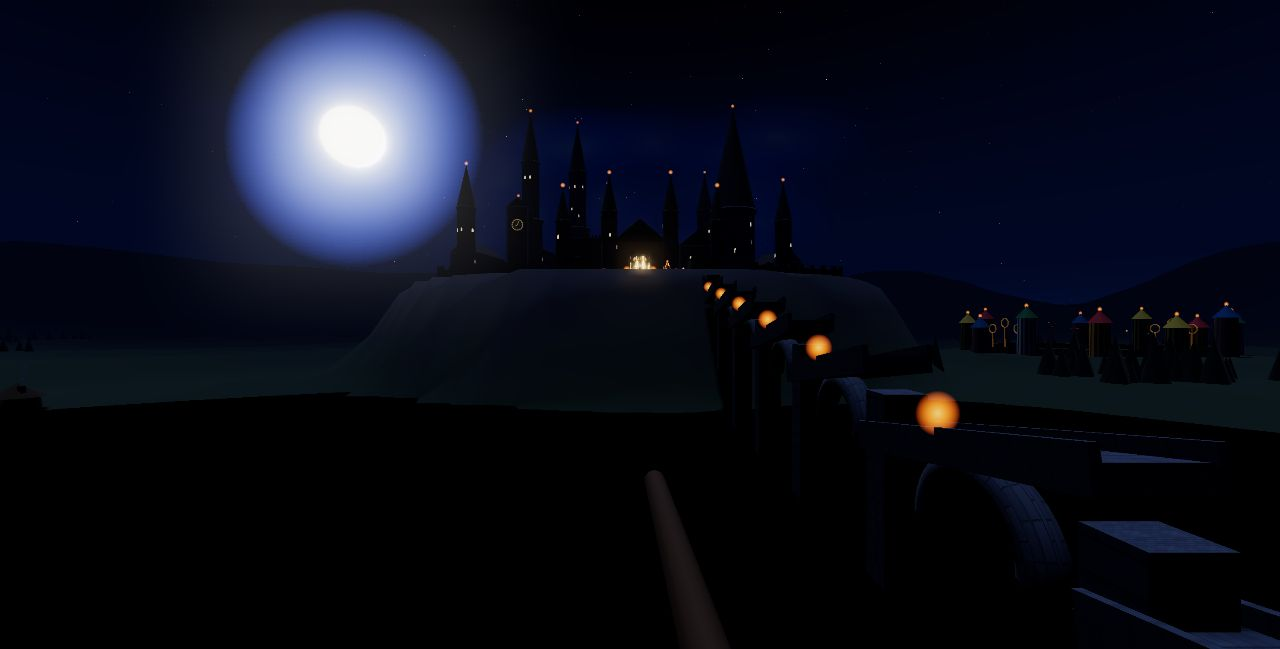
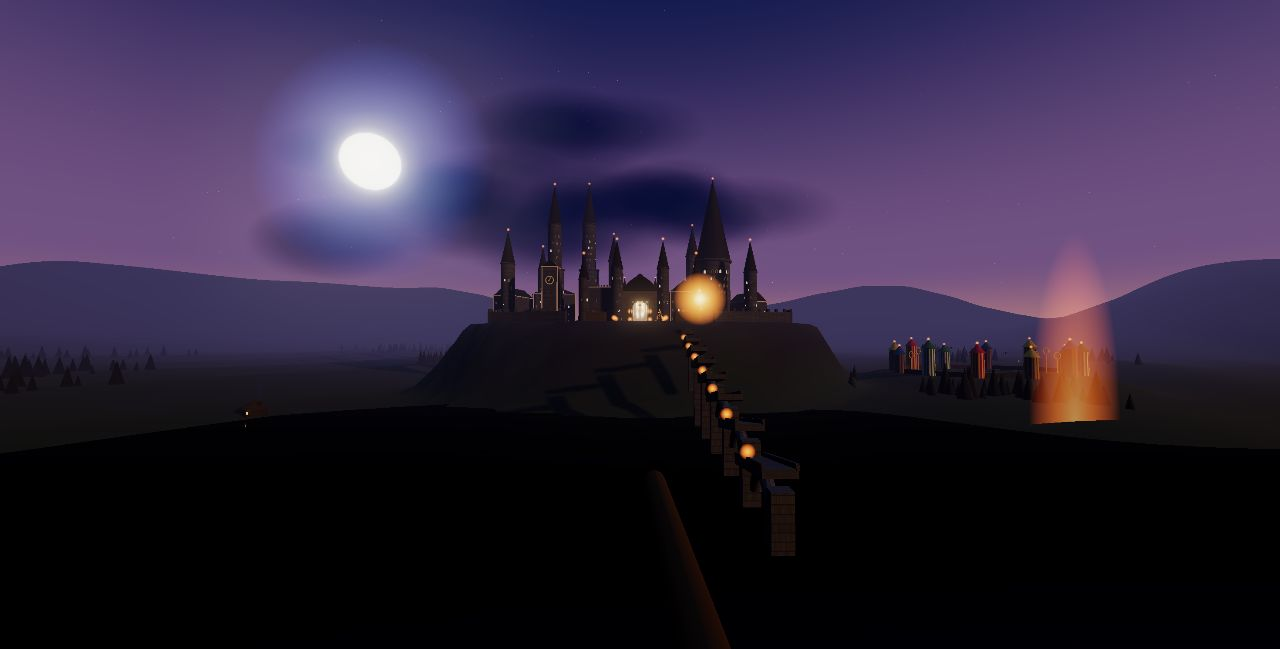
Nightflight golden-hour pass: fixed sunset lighting, normal-mapped stone, feast
- Replace day/night cycle with one hand-tuned perpetual sunset (warm low SE
  sun as shadow-casting key, cool moon fill, warm horizon sky, lighter fog)
  so the world is consistently readable — never too dark or blown out
- Procedural normal maps (Sobel on ashlar heightmap) on castle, hall and
  classroom stone for real relief under raking light
- Great Hall now mid-feast: ~120 instanced students on benches + staff at
  the high table
- Retake README screenshots brighter and wider (same filenames); add
  PLAN.md working notes for cross-session continuity

diff --git a/nightflight/index.html b/nightflight/index.html
@@ -124,6 +124,29 @@ const greystone=(function(){ const c=cvs(256,256), g=c.getContext('2d');
   for(let i=0;i<2600;i++){ const v=Math.random()*30-15; g.fillStyle=`rgba(${92+v},${98+v},${110+v},.35)`; g.fillRect(Math.random()*256,Math.random()*256,3,3); }
   return tex(c,{rep:[2.2,2.2]}); })();
 
+// normal map from a canvas heightmap (Sobel) — gives the ashlar real relief
+function normalFromHeight(draw,{w=256,h=256,strength=2.4,rep=[2.2,2.2]}={}){
+  const c=cvs(w,h), g=c.getContext('2d'); draw(g,w,h);
+  const src=g.getImageData(0,0,w,h).data, out=g.createImageData(w,h), o=out.data;
+  const hf=(x,y)=>src[(((y+h)%h)*w+((x+w)%w))*4]/255;
+  for(let y=0;y<h;y++) for(let x=0;x<w;x++){
+    const dx=(hf(x+1,y)-hf(x-1,y))*strength, dy=(hf(x,y+1)-hf(x,y-1))*strength;
+    const inv=1/Math.sqrt(dx*dx+dy*dy+1), i=(y*w+x)*4;
+    o[i]=Math.round((-dx*inv*.5+.5)*255); o[i+1]=Math.round((dy*inv*.5+.5)*255); o[i+2]=Math.round(inv*255); o[i+3]=255; }
+  g.putImageData(out,0,0);
+  const t=new THREE.CanvasTexture(c); t.wrapS=t.wrapT=THREE.RepeatWrapping; t.repeat.set(rep[0],rep[1]); return t;
+}
+const stoneNormal=normalFromHeight((g,w,h)=>{
+  g.fillStyle='#555'; g.fillRect(0,0,w,h);
+  const bh=36; let row=0;
+  for(let y=0;y<h;y+=bh){ const off=(row++%2)?32:0;
+    for(let x=-64;x<w;x+=64){ const v=Math.random()*26-13;
+      g.fillStyle=`rgb(${168+v},${168+v},${168+v})`; g.fillRect(x+off+3,y+3,58,bh-6); } }
+  // pitting
+  for(let i=0;i<900;i++){ const v=Math.random()*70; g.fillStyle=`rgba(${90+v},${90+v},${90+v},.5)`;
+    g.beginPath(); g.arc(Math.random()*w,Math.random()*h,Math.random()*2.5+.5,0,7); g.fill(); }
+});
+
 const sandstone=(function(){ const c=cvs(256,256), g=c.getContext('2d');
   g.fillStyle='#8a7048'; g.fillRect(0,0,256,256);
   for(let i=0;i<12000;i++){ const v=Math.random()*50-22; g.fillStyle=`rgba(${150+v},${120+v},${78+v},${Math.random()*.5})`; g.fillRect(Math.random()*256,Math.random()*256,2,2); }
@@ -277,8 +300,8 @@ function terrainH(x,z){
   const geo=new THREE.CircleGeometry(720,96); geo.rotateX(-Math.PI/2);
   const m=new THREE.Mesh(geo, new THREE.MeshStandardMaterial({color:0x070e17, roughness:.1, metalness:.88, transparent:true, opacity:.97}));
   m.position.set(0,2,820); scene.add(m);
-  const glint=new THREE.Sprite(new THREE.SpriteMaterial({map:coolGlow,color:0xdfe9ff,transparent:true,blending:THREE.AdditiveBlending,depthWrite:false}));
-  glint.scale.set(200,1100,1); glint.position.set(-160,4,700); scene.add(glint);
+  const glint=new THREE.Sprite(new THREE.SpriteMaterial({map:warmGlow,color:0xe8b070,transparent:true,opacity:.5,blending:THREE.AdditiveBlending,depthWrite:false}));
+  glint.scale.set(90,380,1); glint.position.set(430,4,300); scene.add(glint);
   // low fog banks drifting over the water
   window.__fogBanks=[];
   for(let i=0;i<10;i++){ const f=new THREE.Sprite(new THREE.SpriteMaterial({map:coolGlow,color:0x111a2c,transparent:true,opacity:.32,depthWrite:false}));
@@ -310,7 +333,7 @@ function terrainH(x,z){
 // CASTLE KIT — greystone masses + one giant InstancedMesh of lit windows
 // ============================================================================
 const colliders=[];   // {t:'b',minx..maxz} boxes and {t:'c',x,z,r,y0,y1} cylinders — solid world
-const stoneM=new THREE.MeshStandardMaterial({map:greystone, roughness:.92, metalness:.03, color:0xa4a9b6});
+const stoneM=new THREE.MeshStandardMaterial({map:greystone, normalMap:stoneNormal, normalScale:new THREE.Vector2(.75,.75), roughness:.92, metalness:.03, color:0xa4a9b6});
 const roofM =new THREE.MeshStandardMaterial({map:roofTex, roughness:.8, metalness:.05, color:0x323a52});
 const winMats=[];           // Matrix4 list for instanced windows
 const winColors=[];         // per-window warm/cool tint
@@ -413,7 +436,7 @@ const candleAnchors=[]; const hallLights=[]; const torchSprites=[];
 
 (function greatHall(){
   const {W,H,L,fy}=HALL, halfW=W/2, halfL=L/2;
-  const wallM=new THREE.MeshStandardMaterial({map:greystone, roughness:.95, metalness:.02, color:0xc2b295, emissive:0x171207, emissiveIntensity:.32});
+  const wallM=new THREE.MeshStandardMaterial({map:greystone, normalMap:stoneNormal, normalScale:new THREE.Vector2(.6,.6), roughness:.95, metalness:.02, color:0xc2b295, emissive:0x241c0e, emissiveIntensity:.5});
   const floorM=new THREE.MeshStandardMaterial({color:0x322718, roughness:.22, metalness:.35});
   const woodM=new THREE.MeshStandardMaterial({color:0x4a2f18, roughness:.6});
 
@@ -504,7 +527,7 @@ const candleAnchors=[]; const hallLights=[]; const torchSprites=[];
   }
   // interior key lights
   for(const [lx,lz] of [[-18,-70],[18,-70],[-18,-20],[18,-20],[-18,30],[18,30],[-18,75],[18,75],[0,-halfL+18]]){
-    const pl=new THREE.PointLight(0xffc98a, 52, 150, 2.0); pl.position.set(lx,fy+28,lz); hallG.add(pl); hallLights.push({l:pl,b:52,ph:Math.random()*7}); }
+    const pl=new THREE.PointLight(0xffc98a, 66, 160, 2.0); pl.position.set(lx,fy+28,lz); hallG.add(pl); hallLights.push({l:pl,b:66,ph:Math.random()*7}); }
 
   window.__vaultMat=vault.material;   // enchanted ceiling mirrors the sky
 
@@ -543,6 +566,26 @@ const candleAnchors=[]; const hallLights=[]; const torchSprites=[];
     plates.count=pi; gobs.count=gi; plats.count=fi;
     plates.instanceMatrix.needsUpdate=gobs.instanceMatrix.needsUpdate=plats.instanceMatrix.needsUpdate=true;
     hallG.add(plates,gobs,plats); }
+
+  // the feast: students on every bench, staff at the high table (instanced)
+  { const NST=4*14*2+5;
+    const bodies=new THREE.InstancedMesh(new THREE.CapsuleGeometry(.55,.95,4,8), new THREE.MeshStandardMaterial({color:0x1a1510,roughness:.92}), NST);
+    const heads=new THREE.InstancedMesh(new THREE.SphereGeometry(.4,8,8), new THREE.MeshStandardMaterial({color:0xffffff,roughness:.85}), NST);
+    const d=new THREE.Object3D(), col=new THREE.Color(); const skins=[0xc9a380,0x8a5f3c,0xe8c39a,0x6b452a,0xd9b08c]; let i3=0;
+    for(let ti=0;ti<4;ti++){ const tx=-W/2+(ti+.9)*(W/4.8);
+      for(let k=0;k<14;k++){ const zk=-64+k*10.2;
+        for(const s2 of [-1,1]){ if(i3>=NST-5) continue;
+          const bx=tx+s2*4.2, bz=zk+(Math.random()-.5)*2.4;
+          d.position.set(bx,fy+3.3,bz); d.rotation.set((Math.random()-.5)*.08,s2>0?-Math.PI/2:Math.PI/2,(Math.random()-.5)*.14); d.updateMatrix(); bodies.setMatrixAt(i3,d.matrix);
+          d.position.set(bx,fy+4.65,bz); d.rotation.set(0,0,0); d.updateMatrix(); heads.setMatrixAt(i3,d.matrix);
+          col.setHex(skins[(i3*7)%5]); heads.setColorAt(i3,col); i3++; } } }
+    for(let s3=0;s3<5;s3++){ const hx=-W/2+12+s3*(W-24)/4;
+      d.position.set(hx,fy+4.1,-halfL+13); d.rotation.set(0,0,0); d.updateMatrix(); bodies.setMatrixAt(i3,d.matrix);
+      d.position.set(hx,fy+5.6,-halfL+13); d.updateMatrix(); heads.setMatrixAt(i3,d.matrix);
+      col.setHex(skins[s3%5]); heads.setColorAt(i3,col); i3++; }
+    bodies.count=heads.count=i3; bodies.instanceMatrix.needsUpdate=heads.instanceMatrix.needsUpdate=true;
+    if(heads.instanceColor) heads.instanceColor.needsUpdate=true;
+    hallG.add(bodies,heads); }
 
   // solid geometry — the hall pushes back (world-space, hall centred at z=zC)
   const zC=HALL.zC;
@@ -793,7 +836,7 @@ xmasTree(30, PLA, 52, 19);
 function classroom(cx,cz){
   const W2=26, D2=34, H2=13, doorW2=11, doorH2=10.5;
   const g=new THREE.Group(); g.position.set(cx,PLA,cz); scene.add(g);
-  const wallM2=new THREE.MeshStandardMaterial({map:greystone, color:0xbfb098, roughness:.95});
+  const wallM2=new THREE.MeshStandardMaterial({map:greystone, normalMap:stoneNormal, normalScale:new THREE.Vector2(.6,.6), color:0xbfb098, roughness:.95});
   const woodM2=new THREE.MeshStandardMaterial({color:0x4a3218, roughness:.7});
   const floor2=new THREE.Mesh(new THREE.BoxGeometry(W2,1,D2), new THREE.MeshStandardMaterial({color:0x2e2417,roughness:.5,metalness:.2})); floor2.position.y=.5; g.add(floor2);
   const ceil2=new THREE.Mesh(new THREE.BoxGeometry(W2,1,D2), wallM2); ceil2.position.y=H2; g.add(ceil2);
@@ -951,15 +994,23 @@ document.getElementById('go').addEventListener('click', ()=>{
 // ============================================================================
 // Animate
 // ============================================================================
-// day-night palettes (night → dawn → golden morning)
-const C_=(h)=>new THREE.Color(h);
-const SKY_T=[C_(0x04050e),C_(0x2a2246),C_(0x3a5e97)], SKY_M=[C_(0x0d1734),C_(0x6a4a66),C_(0x7c98c8)], SKY_B=[C_(0x1a2a50),C_(0xc97b4a),C_(0xe8c9a0)];
-const FOG_C=[C_(0x0a1024),C_(0x4a3a50),C_(0x93a7c4)];
-const VAULT_E=[C_(0x4a6ac0),C_(0x8a7aa8),C_(0xaac8ee)];
-const SUN_LO=C_(0xff9a56), SUN_HI=C_(0xffe8c0);
-const _mx=new THREE.Color(), _v1=new THREE.Vector3();
-function mix3(arr,k){ if(k<.5) _mx.copy(arr[0]).lerp(arr[1],k*2); else _mx.copy(arr[1]).lerp(arr[2],(k-.5)*2); return _mx; }
-const DAYP=300;   // seconds for a full night→day→night cycle
+// ---- perpetual golden hour: one hand-tuned sunset, applied once ----
+const SUNDIR=new THREE.Vector3(.62,.17,.52).normalize();   // low SE sun — lights the lake-facing facades
+(function sunsetLighting(){
+  window.__skyU.top.value.setHex(0x232a55); window.__skyU.mid.value.setHex(0x6a5378); window.__skyU.bot.value.setHex(0xe0985e);
+  scene.fog.color.setHex(0x46405e); scene.fog.density=.00062;
+  sun.color.setHex(0xffb875); sun.intensity=2.35;
+  sun.castShadow=true; sun.shadow.mapSize.set(2048,2048);
+  { const sc2=sun.shadow.camera; sc2.near=200; sc2.far=6000; sc2.left=sc2.bottom=-1200; sc2.right=sc2.top=1200; sun.shadow.bias=-0.0005; }
+  moon.castShadow=false; moon.intensity=.85;                     // cool fill from the north-west
+  sunHalo.material.opacity=.85;
+  if(window.__stars) window.__stars.uniforms.fade.value=.35;
+  if(window.__moonHalo) window.__moonHalo.material.opacity=.25;
+  hemi.intensity=1.25; amb.intensity=.62; scene.fog.density=.00052;
+  if(window.__winMat) window.__winMat.color.setScalar(.92);
+  if(window.__vaultMat){ window.__vaultMat.emissive.setHex(0x7a6ab0); window.__vaultMat.emissiveIntensity=1.7; }
+  bloom.strength=.55;
+})();
 
 const clock=new THREE.Clock();
 const cp=cGeo.attributes.position.array, cf=cGeo.attributes.flick.array;
@@ -995,24 +1046,9 @@ function tick(){
     sm2.s.position.set(B[0]+Math.sin(t*.7+sm2.i)*1.4*(f/26+.3), B[1]+f, B[2]+Math.cos(t*.5+sm2.i)*1.2);
     sm2.s.material.opacity=.3*(1-f/26); sm2.s.scale.setScalar(3+f*.35); } }
 
-  // --- the sun cycle: night → dawn → golden morning → night ---
-  const day=.5-.5*Math.cos(((t%DAYP)/DAYP)*Math.PI*2);
-  window.__skyU.top.value.copy(mix3(SKY_T,day)); window.__skyU.mid.value.copy(mix3(SKY_M,day)); window.__skyU.bot.value.copy(mix3(SKY_B,day));
-  scene.fog.color.copy(mix3(FOG_C,day)); scene.fog.density=.00085-.00025*day;
-  const elev=-.32+day*1.0, sE=Math.max(0,Math.sin(elev));
-  const sunDir=_v1.set(Math.cos(elev)*.92, Math.sin(elev), -.39).normalize();
-  sun.position.copy(rig.position).addScaledVector(sunDir,2500); sun.target.position.copy(rig.position);
-  sun.intensity=3.2*sE; sun.color.copy(SUN_LO).lerp(SUN_HI, Math.min(1,sE*2));
-  sunDisc.position.copy(rig.position).addScaledVector(sunDir,7600); sunHalo.position.copy(sunDisc.position);
-  sunHalo.material.opacity=Math.min(.95,sE*2.2);
-  moon.intensity=2.6*(1-day*.82)+.12;
-  if(window.__stars) window.__stars.uniforms.fade.value=1-day*.92;
-  if(window.__moonHalo) window.__moonHalo.material.opacity=.9*(1-day*.85);
-  hemi.intensity=.72+day*1.1; amb.intensity=.38+day*.5;
-  if(window.__winMat) window.__winMat.color.setScalar(1-day*.78);
-  if(window.__vaultMat){ window.__vaultMat.emissive.copy(mix3(VAULT_E,day)); window.__vaultMat.emissiveIntensity=1.5+day*1.1; }
-  if(window.__flameMats&&window.__flameMats.length>1){ window.__flameMats[0].uniforms.dim.value=.7*(1-day*.3); window.__flameMats[1].uniforms.dim.value=.26*(1-day*.3); }
-  bloom.strength=.7-.32*day;
+  // golden-hour key light + sun disc follow the flyer (keeps shadows crisp)
+  sun.position.copy(rig.position).addScaledVector(SUNDIR,2500); sun.target.position.copy(rig.position);
+  sunDisc.position.copy(rig.position).addScaledVector(SUNDIR,7600); sunHalo.position.copy(sunDisc.position);
 
   if(st.flying){
     let rollT=0;

diff --git a/nightflight/PLAN.md b/nightflight/PLAN.md
@@ -1,0 +1,58 @@
+# Nightflight — working plan & continuity notes
+
+Purpose: lets any session (or a cheaper model) resume mid-stream. Update the
+checklist as you go. App = single `index.html`, Three.js r160 vendored in
+`lib/`, no build step. Serve with `python3 -m http.server` from this folder.
+
+## Current milestone: "golden hour" quality pass — ✅ DONE (all six steps)
+
+- [x] 1. **Fixed sunset lighting** — remove the day/night cycle (`DAYP`, `mix3`,
+      palette arrays, and the per-frame "sun cycle" block in `tick()`); replace
+      with one static golden-hour setup (warm low sun = key light with shadows,
+      cool moon fill, warm horizon sky, lighter fog, stars faint). Keep the
+      per-frame lines that make sun/moon FOLLOW `rig.position` so shadows stay
+      crisp. Goal: consistent visibility — never too dark, never blown out.
+- [x] 2. **Normal-mapped stone** — add `normalFromHeight(draw)` helper (Sobel on
+      a canvas heightmap of the same ashlar block pattern as `greystone`);
+      apply to `stoneM`, hall `wallM`, classroom walls. This is the "brick
+      relief" upgrade — raking sunset light makes it pop.
+- [x] 3. **People in the Great Hall** — two InstancedMeshes (robed capsule
+      bodies + skin-tone heads, ~115 students on the benches, 5 staff at the
+      high table). Classrooms + Quidditch already have people.
+- [x] 4. **Retake screenshots** (brighter + more zoomed out) into
+      `screenshots/` with the SAME filenames (`great-hall.jpg`,
+      `castle-approach.jpg`, `quidditch.jpg`) so README links hold.
+      Method: temporarily add `window.__shot` (canvas→jpeg dataURL),
+      `window.__tp` (teleport), and a `go.click()` autostart; run
+      `scratchpad shot_receiver.py`-style local POST receiver on :8125; page
+      fetches each shot to it. REMOVE all three debug lines after.
+      Camera spots: hall (0, 142, -58, yaw 0) · exterior (0, 95, 760, yaw 0)
+      · quidditch (505, 92, -80, yaw -PI/2).
+- [x] 5. **README updates** — this project's README + `../README.md` table row:
+      say "perpetual golden-hour/sunset", drop the sun-cycle bullet.
+- [x] 6. **Commit** in the AIExperiments repo (already authorized). Do NOT push
+      unless Vatsal says so (branch already 1 ahead of origin).
+
+## Gotchas learned (do not rediscover these)
+
+- **Chrome caches index.html between navigates** — after editing, always load with a
+  fresh query string (`index.html?v=N`) or you will debug a stale build. This
+  cost a full detour ("missing" Quidditch stands that were never missing).
+
+- Browser-automation clicks sometimes miss (screenshot px ≠ CSS px when DPR
+  shifts) → prefer the autostart line + `__tp` over UI clicks while testing.
+- The automation channel occasionally delivers phantom key events after
+  `navigate` — app is fine (proven with an event trap); ignore stray motion.
+- `save_to_disk` screenshots go somewhere unfindable; JS tool blocks base64
+  return. The local-POST-receiver trick is the reliable capture path.
+- Debug spawn/autostart lines are marked `// DEBUG` — always grep them out
+  before committing.
+
+## Key code landmarks (index.html)
+
+- Lighting rig: `moon`, `sun`, `hemi`, `amb`, `bloom` near top; sky uniforms at
+  `window.__skyU`; lit windows material `window.__winMat`; hall ceiling
+  `window.__vaultMat`; candle materials `window.__flameMats`.
+- Hall constants: `HALL={W:64,H:58,L:210,fy:PLA,zC:-155}` (interior z −260…−50).
+- `terrainH(x,z)` = analytic ground truth for mesh AND flight clamp.
+- `colliders[]` = solid world (boxes + cylinders), resolved in `tick()`.

diff --git a/nightflight/README.md b/nightflight/README.md
@@ -1,10 +1,11 @@
 # Nightflight — a broom over Hogwarts
 
-A first-person, free-flight Hogwarts at Christmas, in the browser. You start
+A first-person, free-flight Hogwarts at Christmas, in the browser — lit by a
+perpetual golden-hour sunset so the whole world stays readable. You start
 hovering over the Black Lake with the castle ahead and simply fly — through the
-great doors, under a thousand floating candles, past classrooms in session, and
-over a Quidditch match in progress. A golden wisp leads the way; place names fade
-in when you arrive.
+great doors into a feast under a thousand floating candles, past classrooms in
+session, and over a Quidditch match in progress. A golden wisp leads the way;
+place names fade in when you arrive.
 
 ![The Great Hall at Christmas](screenshots/great-hall.jpg)
 ![The castle across the lake](screenshots/castle-approach.jpg)
@@ -12,10 +13,10 @@ in when you arrive.
 
 ## The world
 
-- **Great Hall** — cathedral scale: floating candles with floor reflections, a
-  starry gothic vault that mirrors the sky outside, stained-glass lancets, gilt
-  portraits, iron chandeliers, tables laden with gold plates & goblets, and four
-  fairy-lit Christmas trees.
+- **Great Hall** — cathedral scale, mid-feast: ~120 students on the benches and
+  staff at the high table, floating candles with floor reflections, a starry
+  gothic vault, stained-glass lancets, gilt portraits, iron chandeliers, tables
+  laden with gold plates & goblets, and four fairy-lit Christmas trees.
 - **Two classrooms** off the courtyard with classes in session — candle-lit
   desks, seated students, a hatted teacher, bookshelves.
 - **Quidditch pitch** — striped house stands, three golden hoops per end, two
@@ -23,8 +24,9 @@ in when you arrive.
 - Astronomy tower, clock tower, cobbled courtyard with lamp posts, Hagrid's hut
   with a smoking chimney, an arched viaduct down to the boathouse, pine forest,
   mountains, drifting lake fog.
-- **Sun cycle** (~5 min): night → dawn → golden morning and back — sky, fog,
-  moon, stars, window lights and the enchanted ceiling all follow.
+- **Golden-hour light**: one hand-tuned low sun (warm key + long shadows) with
+  cool moon fill — consistent visibility everywhere, indoors and out. Stone
+  facades carry procedural **normal maps**, so the raking light shows real relief.
 - **Solid world**: terrain + building collision. You fly around towers and
   through doorways, never through walls.
 
@@ -62,7 +64,10 @@ What actually moved the realism needle, in order:
    4 lit. Restraint reads as real; a wall of glowing quads reads as a toy.
 3. **Collision + guided navigation** — nothing breaks immersion faster than
    clipping through a wall or not knowing where to go.
-4. **Life** — riders over the pitch, smoke from Hagrid's chimney, a sun that
-   rises. Still worlds feel like screenshots; moving ones feel like places.
+4. **Life** — a feast in the Hall, riders over the pitch, smoke from Hagrid's
+   chimney. Still worlds feel like screenshots; moving ones feel like places.
+5. **One good light beats a fancy cycle** — a day/night cycle sounded rich but
+   spent half its time too dark or too flat; a single hand-tuned golden hour
+   looks better every second.
 
 Stack: vanilla JS + Three.js r160, vendored in `lib/`. No build step, no deps.

diff --git a/README.md b/README.md
@@ -8,7 +8,7 @@ A collection of AI experiments that excite me. Each folder is a standalone proje
 |---------|-----------|------|
 | [Multimodal RAG](./multimodal-rag/) | RAG using native multimodal embeddings over images, video, audio, and PDFs — no lossy text conversion | Gemini Embedding 2, Gemini 3.1 Flash Lite, ChromaDB, Streamlit |
 | [Road Clash](./road-rash-game/) | A Road Rash–style 3D motorcycle combat racer in the browser — procedural valley landscape, rival riders you can punch, 3-lap races | Three.js, WebAudio, vanilla JS (no build step) |
-| [Nightflight](./nightflight/) | First-person broom flight over a night-time Hogwarts — Great Hall under floating candles, live Quidditch match, sun cycle, collision, all procedural with zero downloaded assets | Three.js + UnrealBloom, WebAudio, vanilla JS (no build step) |
+| [Nightflight](./nightflight/) | First-person broom flight over a golden-hour Hogwarts — a feast in the Great Hall under floating candles, classes in session, a live Quidditch match, real collision; all procedural, zero downloaded assets | Three.js + UnrealBloom, WebAudio, vanilla JS (no build step) |
 
 ## Structure
 
